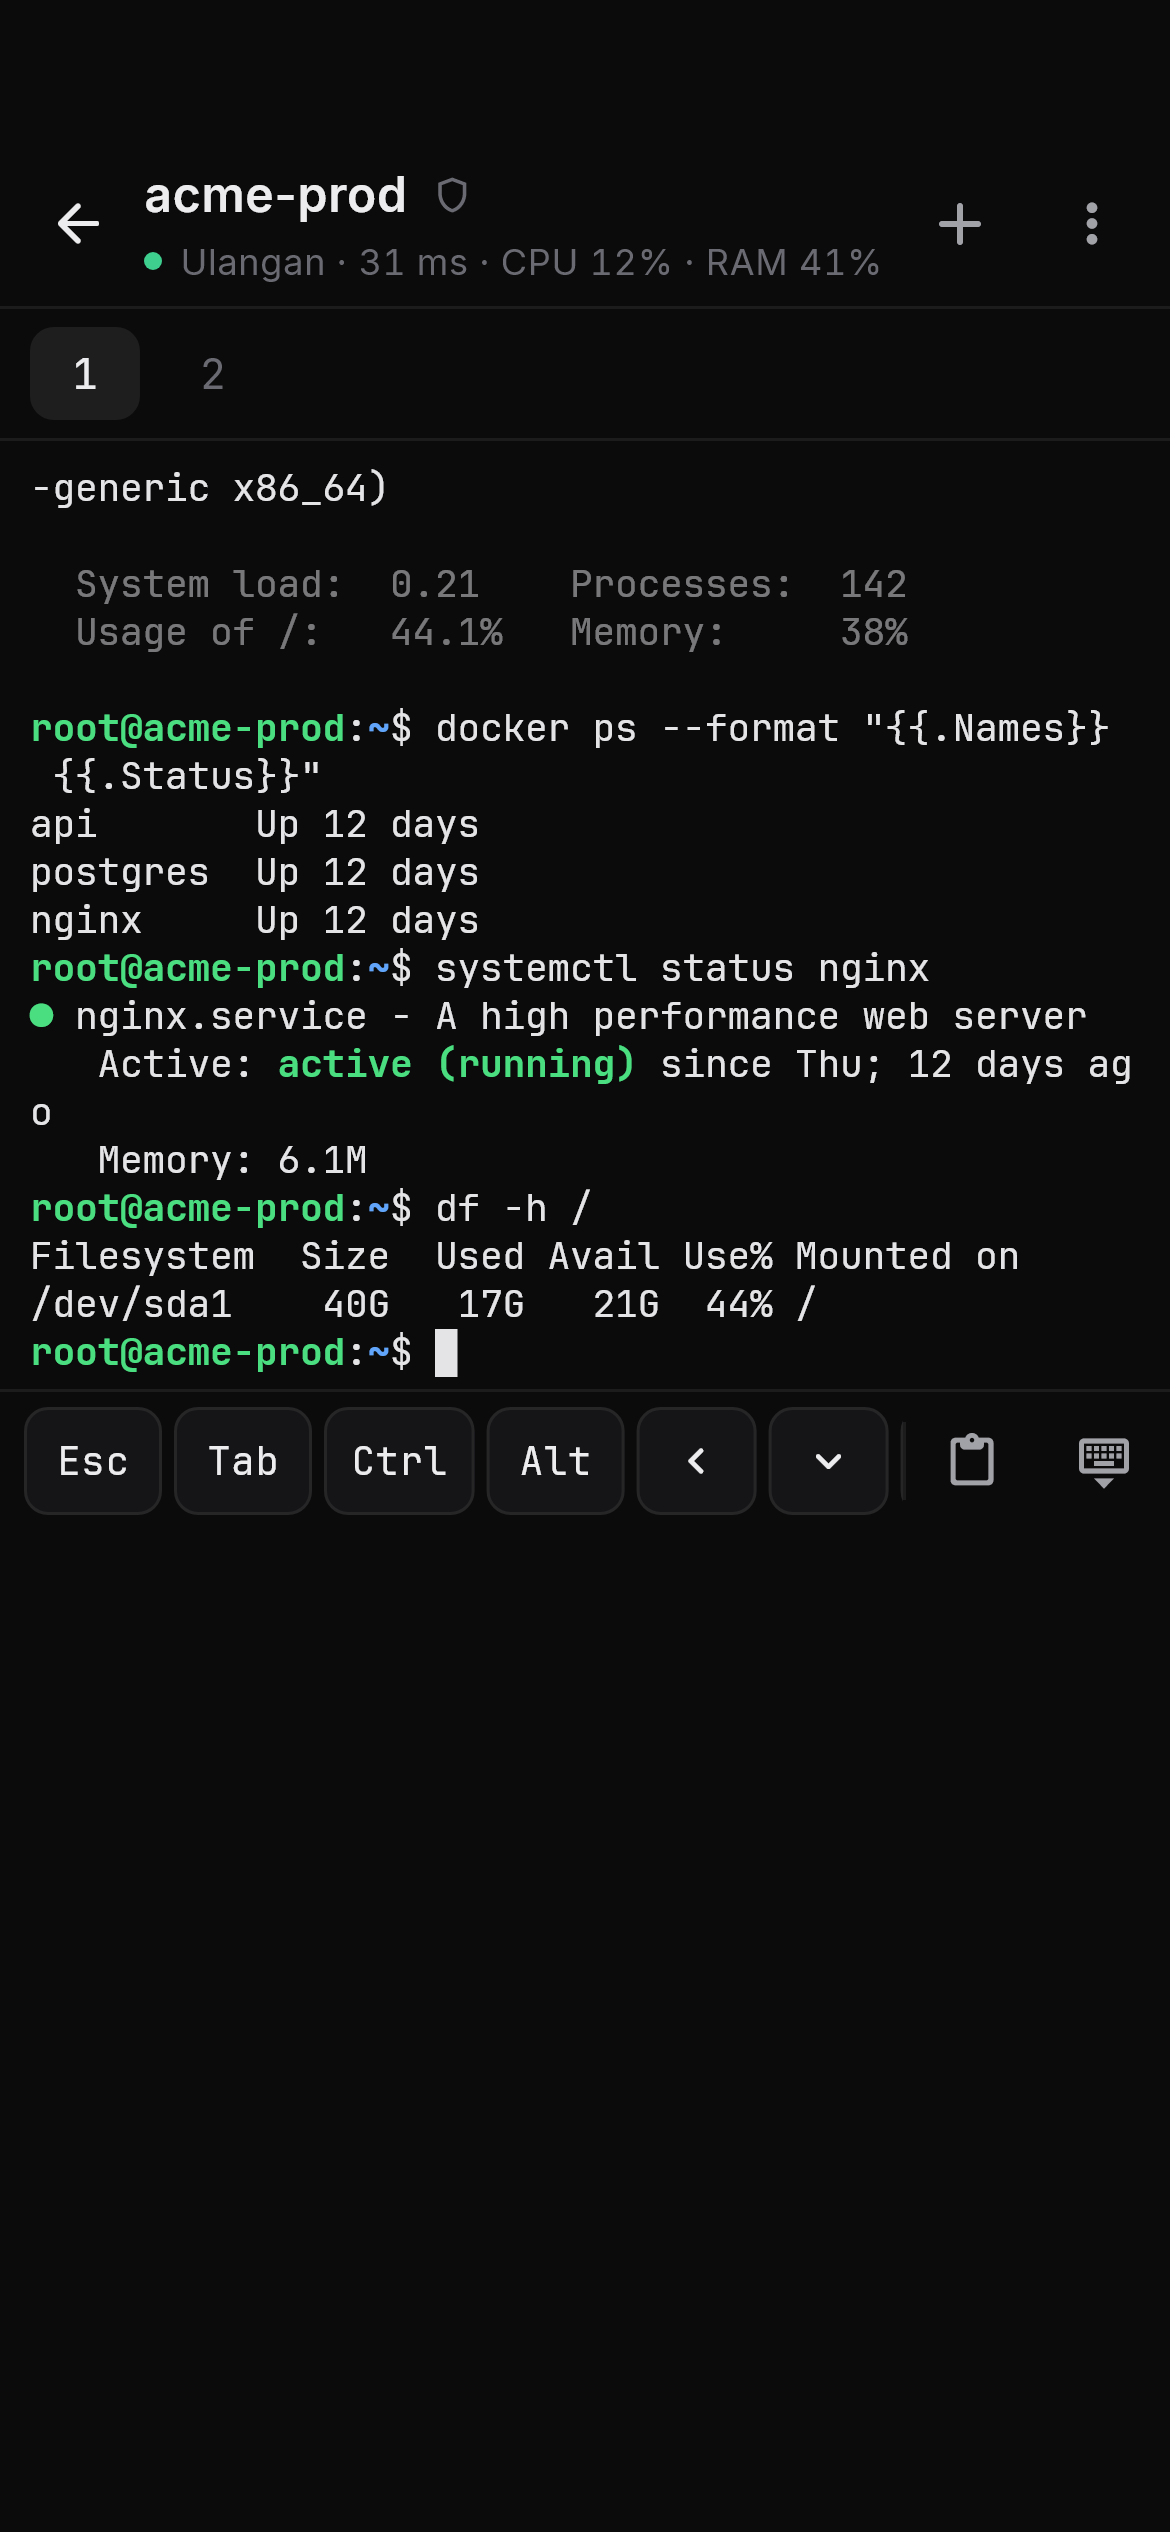
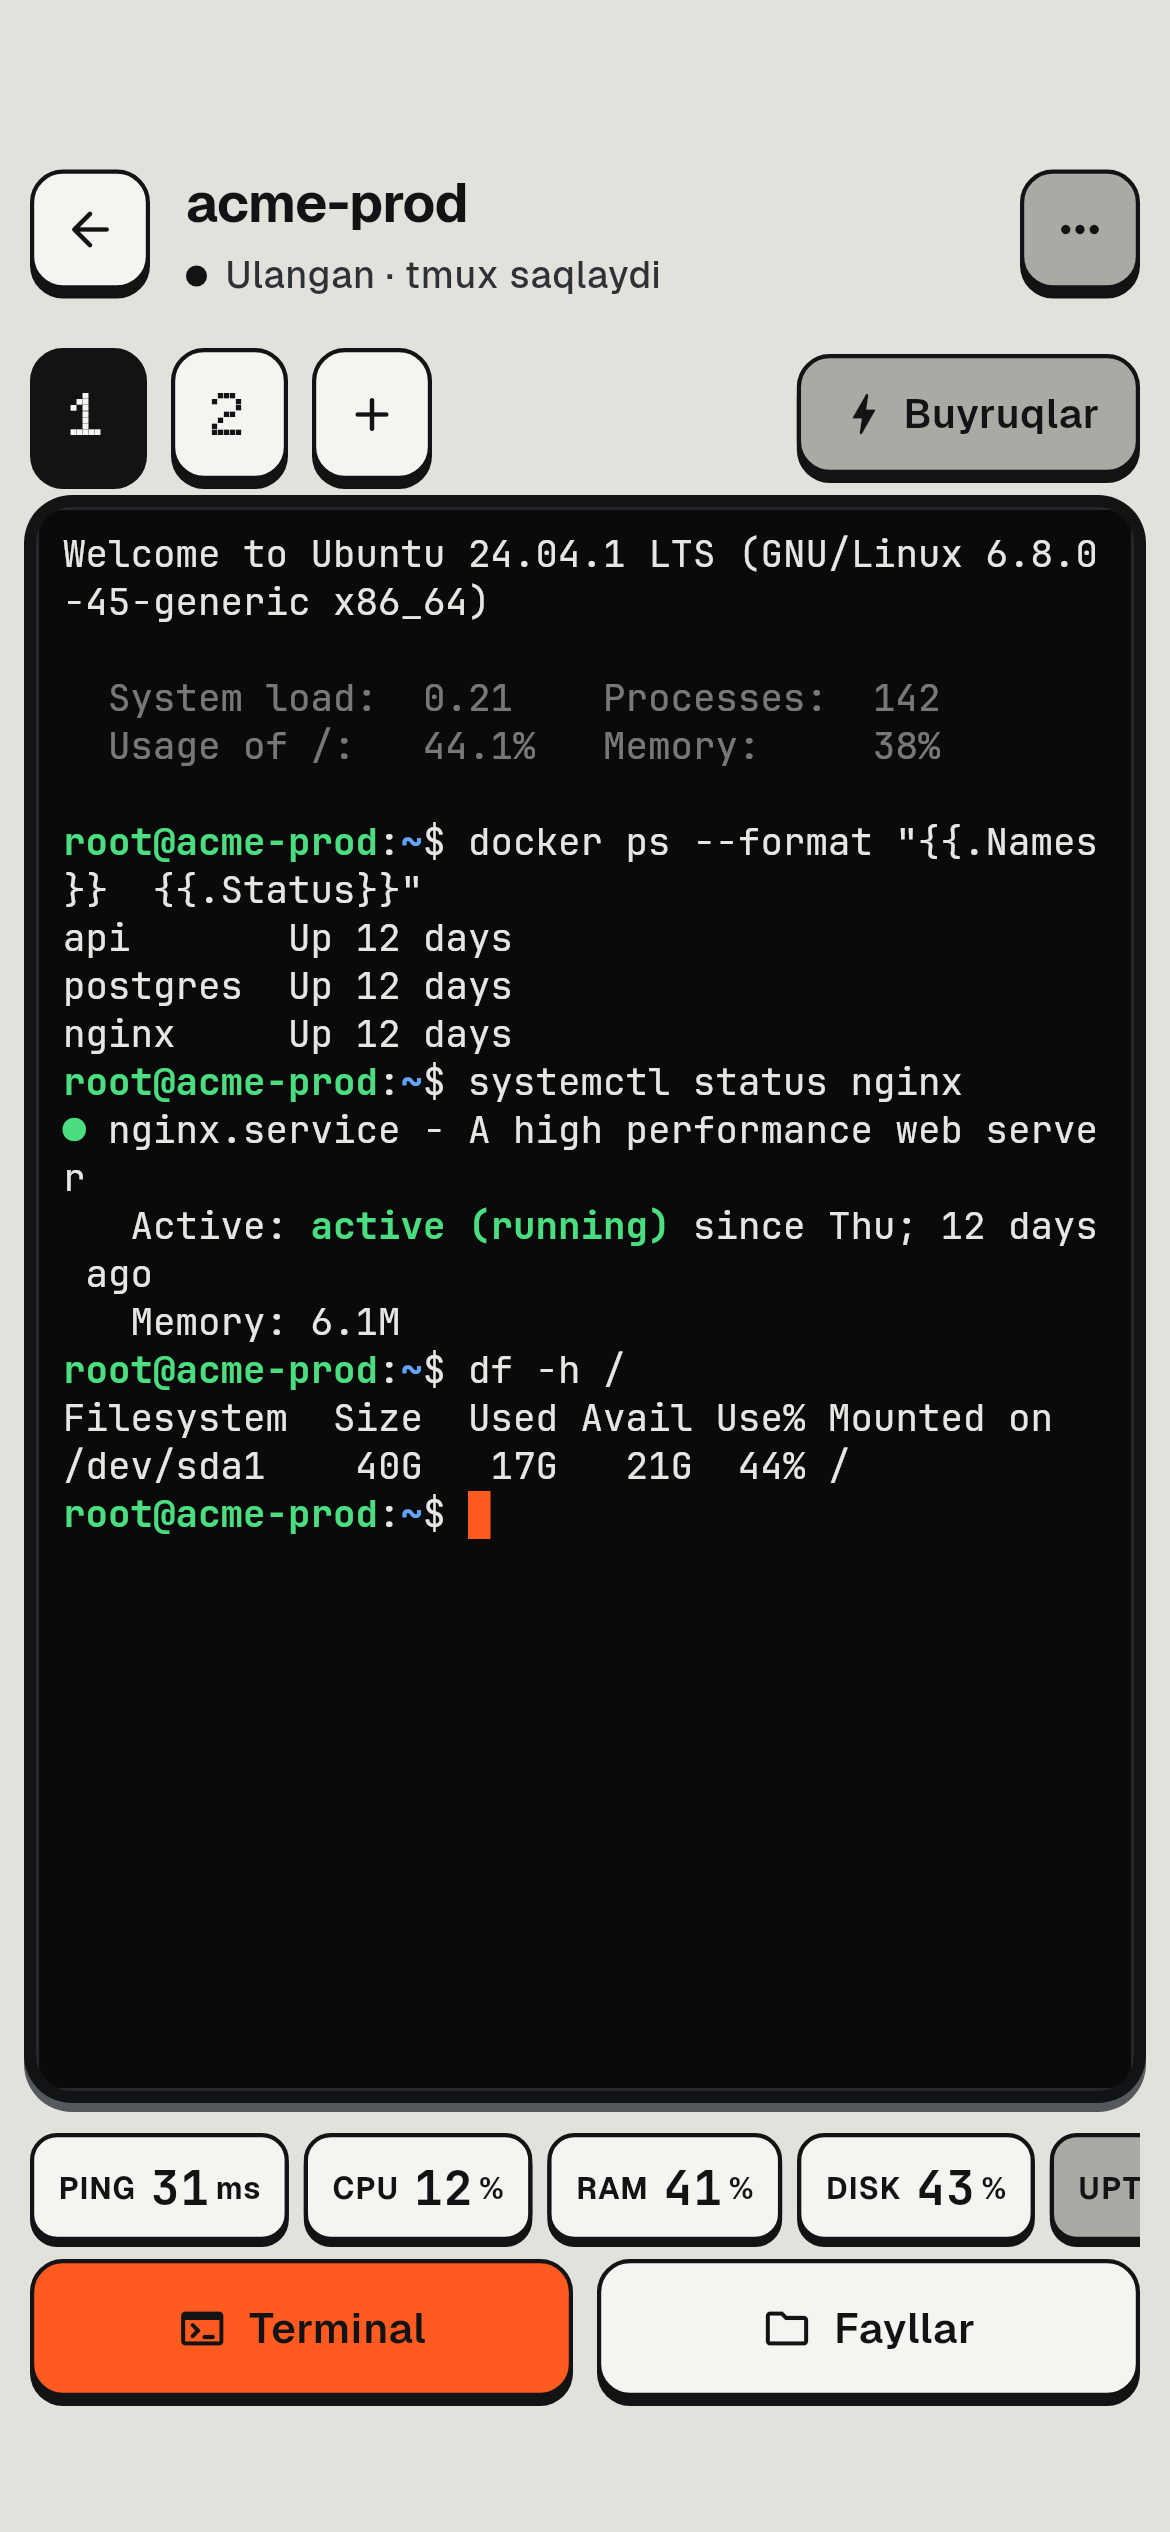
docs: 1.2.0 yangiliklari va yangi ekran rasmlari
Claude-Session: https://claude.ai/code/session_01E8NWchqSJTW5fxcQC74ARu

diff --git a/README.md b/README.md
@@ -1,6 +1,7 @@
 # Pult
 
-Serverni boshqarish uchun ilova: **terminal + fayllar**, bitta oynada, minimal dizayn.
+Serverni boshqarish uchun ilova: **terminal + fayllar**, bitta oynada. «Qurilma» dizayni: och korpus,
+vazifasiga qarab rangli jismoniy tugmalar, qora terminal ekrani va nuqtali raqamlar.
 Windows va Android. Bepul va ochiq kodli (MIT).
 
 ![Pult](docs/promo/preview.gif)
@@ -10,11 +11,28 @@ Windows va Android. Bepul va ochiq kodli (MIT).
 
 🎬 Promo video: [gorizontal (1920×1080)](docs/promo/pult-promo.mp4) · [vertikal (1080×1920)](docs/promo/pult-promo-vertical.mp4)
 
+## 1.2.0 yangiliklari
+
+- **Yangi dizayn** (kompyuter va telefon): to‘q sariq signal — asosiy amal yoki tanlangan rejim, qora — hozir qayerdasiz,
+  kulrang — yordamchi tugmalar. Sozlamalarda signal rangi (to‘q sariq, sariq, ko‘k, yashil) va korpus rangi tanlanadi.
+- **Fayl uzatishda ping ko‘tarilmaydi.** Pult uzatish paytida pingni kuzatadi va navbat yig‘ilsa sekinlashadi,
+  shuning uchun terminal va ping kechikmaydi. Eng tez uzatish kerak bo‘lsa: Sozlamalar → Fayllar → **Maksimal tezlik**.
+- **Terminalni yopishdan oldin so‘raydi**, agar unda Claude Code, vim yoki boshqa dastur ishlayotgan bo‘lsa.
+- **Oxirgi serverlarga o‘zi ulanadi** — ilova ochilganda, yopilishidan oldin ochiq bo‘lgan serverlar tiklanadi.
+- **Terminal tarixi.** Qayta ochilgan terminalda tmux’dagi avvalgi chiqish ham ko‘rinadi (20 000 qatorgacha).
+- **Claude holati.** Har bir terminal tugmasida Claude ishlayapti, ruxsat so‘rayapti («!») yoki tugadi («✓») — hooklar orqali aniq.
+- **Tez buyruqlar.** `df -h`, `docker ps` kabi buyruqlarni bir bosishda yuborish (kompyuterda `Alt+1…9` ham).
+- **Portlar (SSH tunnel).** Serverda faqat ichkarida ishlayotgan veb-panel yoki API kompyuter yoki telefon
+  brauzerida `http://127.0.0.1:<port>` da ochiladi.
+- **Rasmlar ilova ichida ko‘rinadi**; kompyuterda fayl o‘z dasturida ochiladi va saqlanganda serverga o‘zi qaytadi.
+- **Server holati.** CPU, RAM va ping grafiklari hamda eng ko‘p resurs olayotgan jarayonlar (to‘xtatish mumkin).
+- **Yangilanish.** GitHub’da yangi versiya chiqsa, Pult o‘zi taklif qiladi va o‘rnatadi.
+
 ## O‘rnatish
 
 Tayyor fayllar **Releases** sahifasida:
 
-- `Pult Setup 1.0.0.exe` — Windows o‘rnatuvchisi (Start menyu va ish stolida yorliq paydo bo‘ladi).
+- `Pult Setup <versiya>.exe` — Windows o‘rnatuvchisi (Start menyu va ish stolida yorliq paydo bo‘ladi).
 - `Pult-portable.exe` — o‘rnatmasdan ishlaydi.
 - `Pult.apk` — Android 7.0 va undan yangi telefonlar uchun.
 
